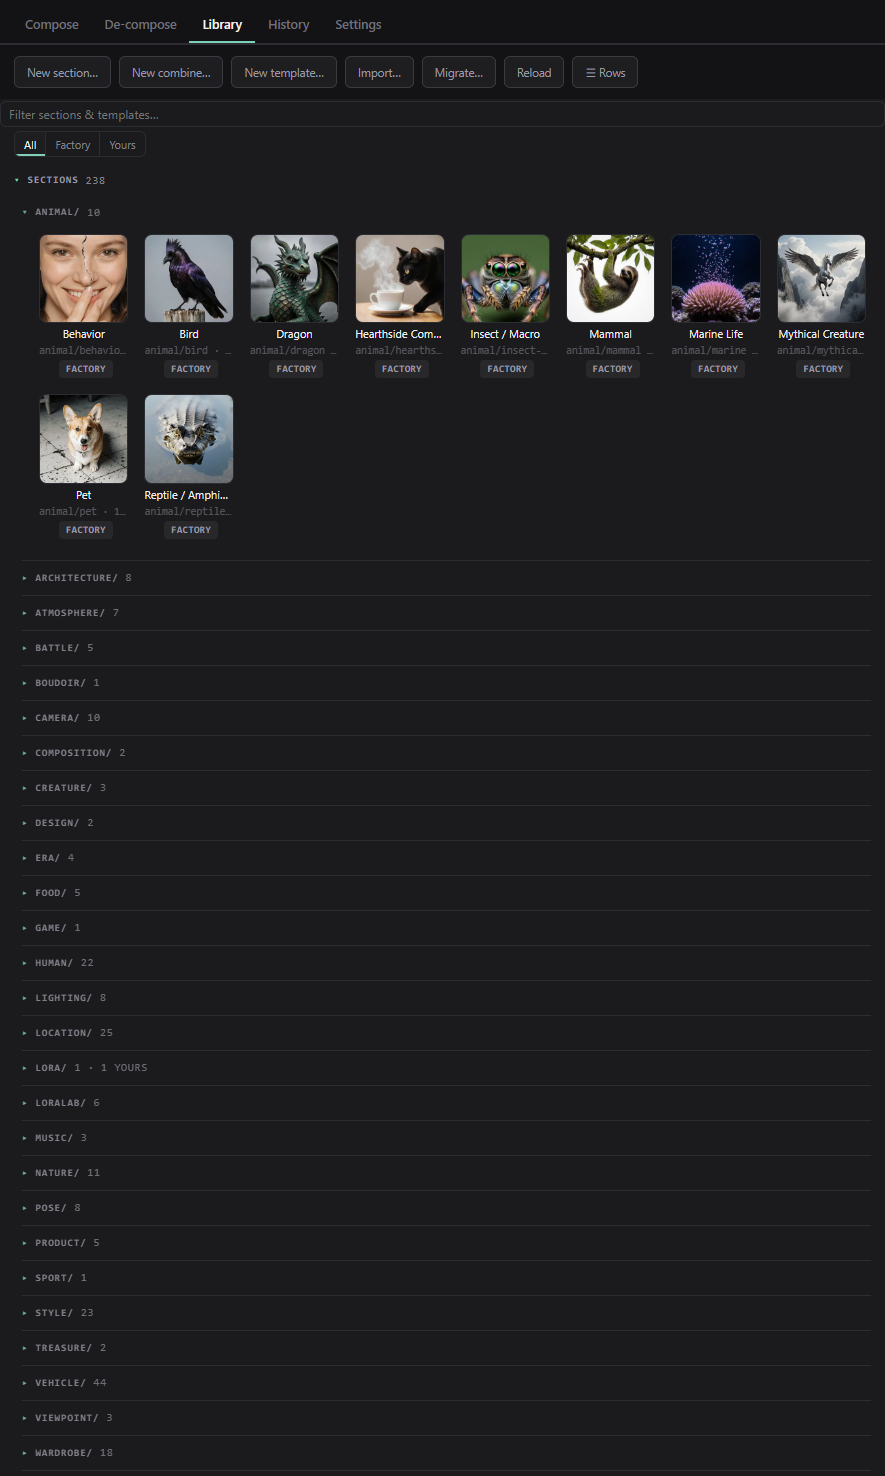
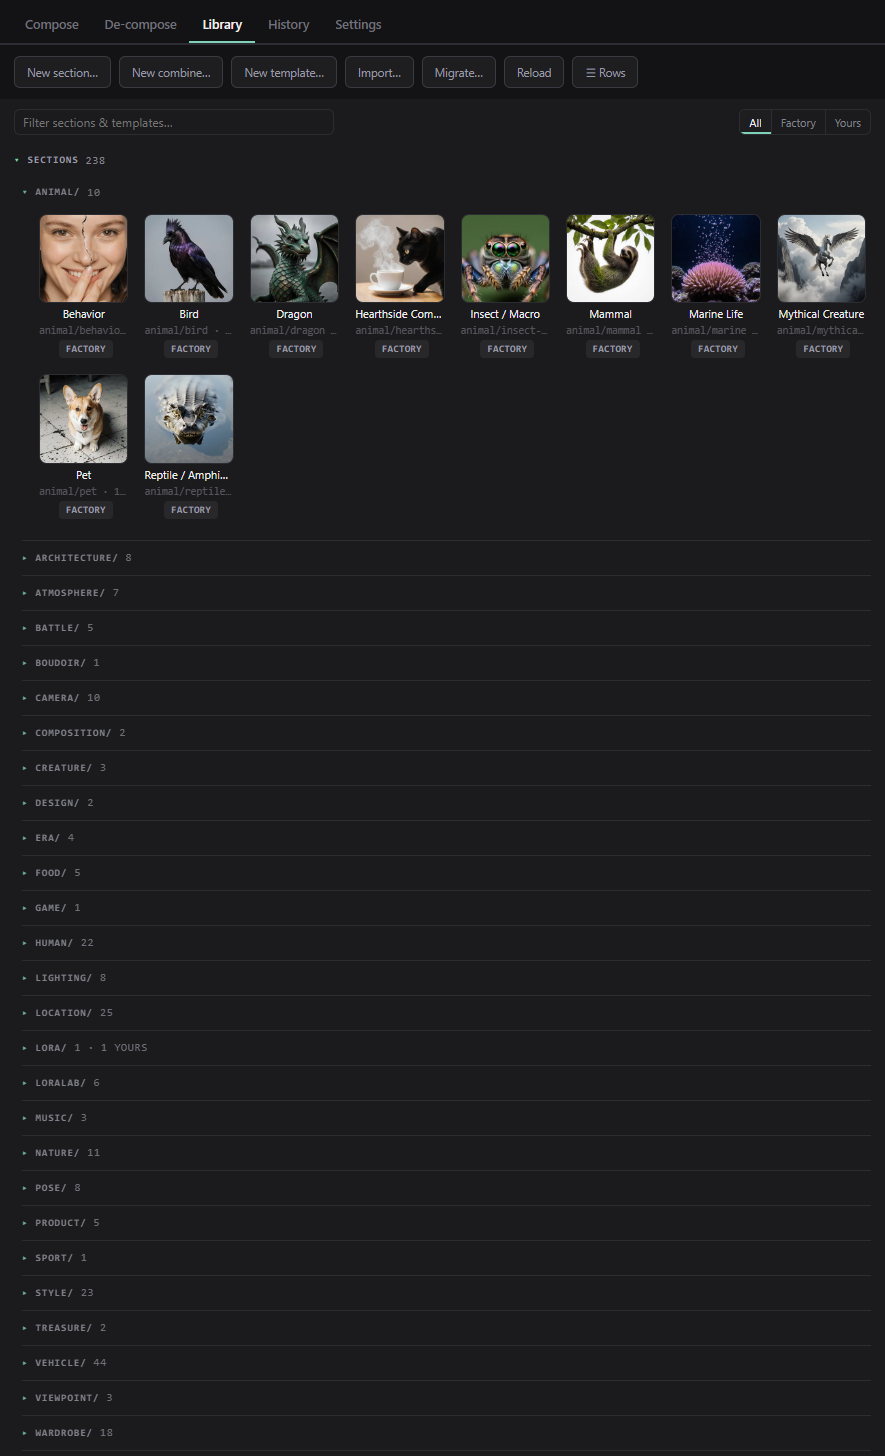
Filter and tier view share one row above the tree
Both scope what the tree shows, so they belong together and on the same line:
filter left at a bounded 320px — it holds a word or two, and a search field
spanning the full panel reads as a header for the whole tab rather than a
control over the list beneath it — and All/Factory/Yours taking the right edge,
so the row has two ends instead of one long middle. Space above it, so it reads
as the tree's header and not as something crowded under a button bar it has
nothing to do with.

Library screenshot re-shot to match.

diff --git a/web/js/prompt_composer.css b/web/js/prompt_composer.css
@@ -3404,12 +3404,24 @@ details.mrln-fold > summary { cursor: pointer; opacity: 0.8; margin: 2px 0; font
   text-align: right;
 }
 
-/* The tier scope row: its own line between the filter and the tree, because
-   both of them answer "what does this list show" and the button bar above
-   answers "what do I create". Aligned to the panel gutter so it reads as a
-   header for the tree rather than a stray control. */
+/* The scope row: text filter left, tier view right, one line above the tree.
+   The filter does not need the full panel width — it holds a word or two, and
+   a search field spanning 885px reads as the header of the whole tab rather
+   than a control over the list under it. Bounded, and the toggle takes the
+   right edge so the row has two ends instead of one long middle. */
 .pc-panel .mrln-lib-scope {
   display: flex;
   align-items: center;
-  padding: 2px var(--pc-pad) 0;
+  gap: var(--pc-gap);
+  /* room above so the row reads as a header for the tree rather than as
+     something crowded under the button bar it has nothing to do with */
+  padding: 10px var(--pc-pad) 2px;
+}
+.pc-panel .mrln-lib-scope > .mrln-lib-filter {
+  flex: 0 1 320px;
+  min-width: 120px;
+  margin: 0;
+}
+.pc-panel .mrln-lib-scope > .pc-segmented {
+  margin-left: auto;
 }

diff --git a/web/js/composer/tree.js b/web/js/composer/tree.js
@@ -635,13 +635,12 @@ export function createTree(hub) {
         el("button", { class: "mrln-btn", onclick: () => loadLibrary() }, "Reload"),
         viewToggle()
       ),
-      filterInput,
-      // The tier view gets a row of its own directly above the tree, not a
-      // seat in the button bar: it scopes WHAT THE TREE SHOWS, like the filter
-      // right above it, and dropping it in among the New…/Import… actions both
-      // wrapped that bar onto two lines and filed a view control under things
-      // that create files.
-      el("div", { class: "mrln-lib-scope" }, tierToggle()),
+      // One row directly above the tree for the two controls that scope it:
+      // the text filter on the left, the tier view right-aligned. Both answer
+      // "what does this list show", which is why neither belongs in the
+      // New…/Import… bar above — that one answers "what do I create", and
+      // putting the toggle there also wrapped it onto two lines.
+      el("div", { class: "mrln-lib-scope" }, filterInput, tierToggle()),
       treeBlock("sections", "Sections", lib.sections),
       treeBlock("templates", "Templates", lib.templates),
       profilesBlock(),
